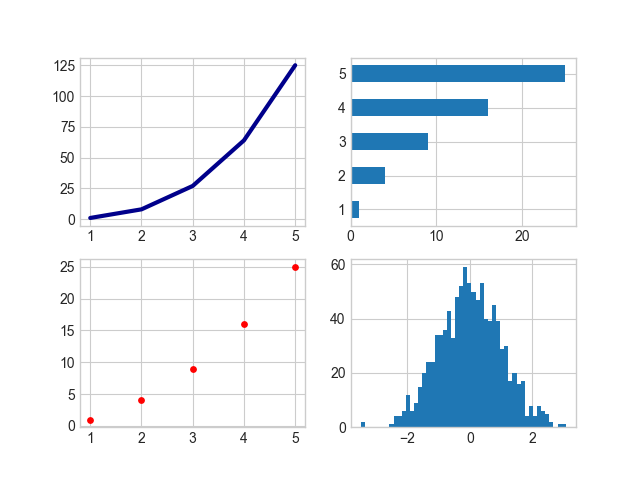
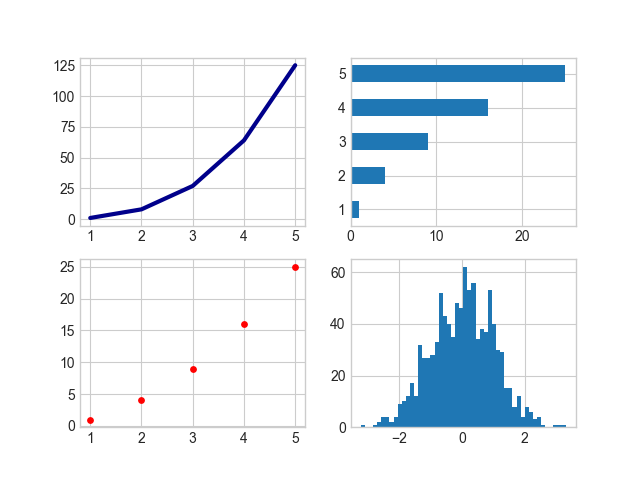
1

diff --git a/DataVisualizationLab.py b/DataVisualizationLab.py
@@ -57,5 +57,41 @@ y = np.array([28, 26, 25, 21])
 mylabels = ["John", "Paul", "George", "Ringo"]
 myexplode = [0.1, 0, 0, 0]
 
-plt.pie(y, labels = mylabels, explode = myexplode, shadow = True)
+plt.pie(y, labels = mylabels,autopct="%2.1f%%", explode = myexplode, shadow = True)
+plt.show()
+
+print("\n5)")
+# 4 sample Plots on a figure
+# https://matplotlib.org/tutorials/introductory/usage.html#sphx-glr-tutorials-introductory-usage-py
+# https://matplotlib.org/3.2.1/tutorials/introductory/sample_plots.html
+import matplotlib.pyplot as plt
+import numpy as np
+
+numbers= [1,2,3,4,5]
+squares = [1,4,9,16,25]
+cubes = [1,8,27,64,125]
+
+rand_data = np.random.randn(1000) # numpy random ndarray generator
+n_bins = 50
+
+plt.style.use('seaborn-whitegrid')
+
+fix,ax = plt.subplots(2,2)  # create a figure with two rows of axes
+
+# implement a linegraph in top left corner
+ax[0,0].plot(numbers, cubes, c='darkblue', linewidth=3)
+
+# implement a scatter plot in bottom right corner
+ax[1,0].scatter(numbers, squares, s=15, c='red')
+
+# implement a line with markers in top right corner
+ax[0,1].barh(numbers, squares, .5, align='center')
+
+# implement a histogram in bottom right corner
+ax[1,1].hist(rand_data, n_bins)
+
+# save the figure to a file
+plt.savefig('myGraph.png')
+
+# display the figure
 plt.show()
